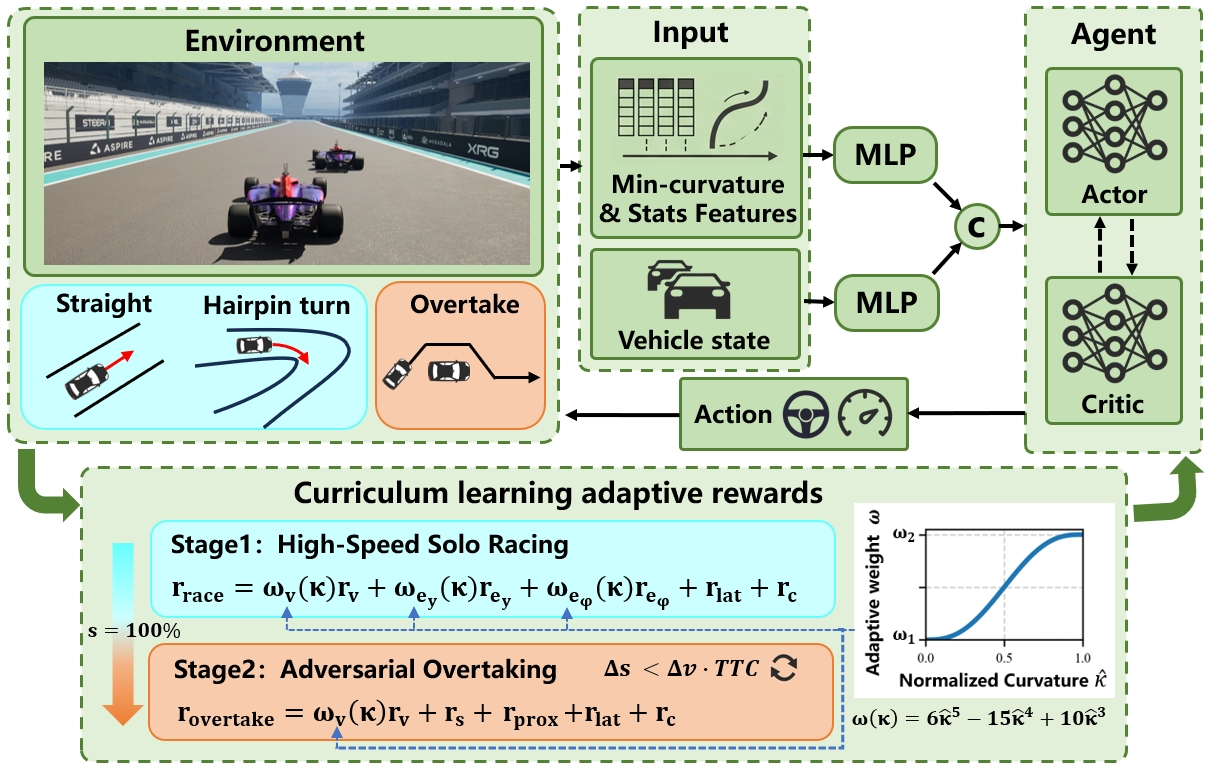
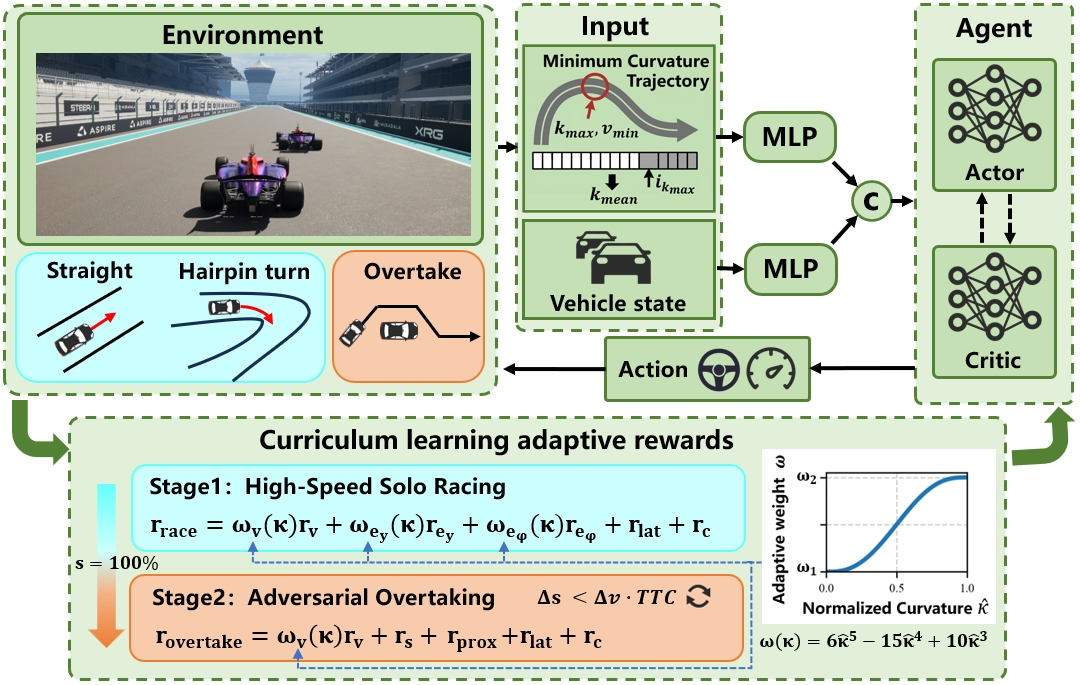
update

Changed region(s): [[0.0, 0.0, 1.0, 1.0], [0.825, 0.5212, 0.8556, 0.5518], [0.1222, 0.5518, 0.1528, 0.5825]]

diff --git a/index.html b/index.html
@@ -75,8 +75,7 @@
               and safety preservation. To address these challenges, we propose a Physics-Adaptive Curriculum 
               Reinforcement Learning (PAC-RL) framework for safe extreme-speed autonomous racing. First, we propose 
               a state representation integrating feature decoupling and minimum curvature guidance with statistical 
-              priors to enhance anticipatory cornering awareness and suppress high-speed control oscillations. 
-              Second, we develop a physics-adaptive reward formulation that incorporates curvature-aware weighting 
+              priors to enhance anticipatory cornering awareness. Second, we develop a physics-adaptive reward formulation that incorporates curvature-aware weighting 
               and safe switching based on time-to-collision, achieving continuous and conflict-free coordination 
               between time-trial efficiency and overtaking safety. Third, we introduce a progressive curriculum 
               learning paradigm that facilitates structured policy evolution from basic stabilization to high-speed 